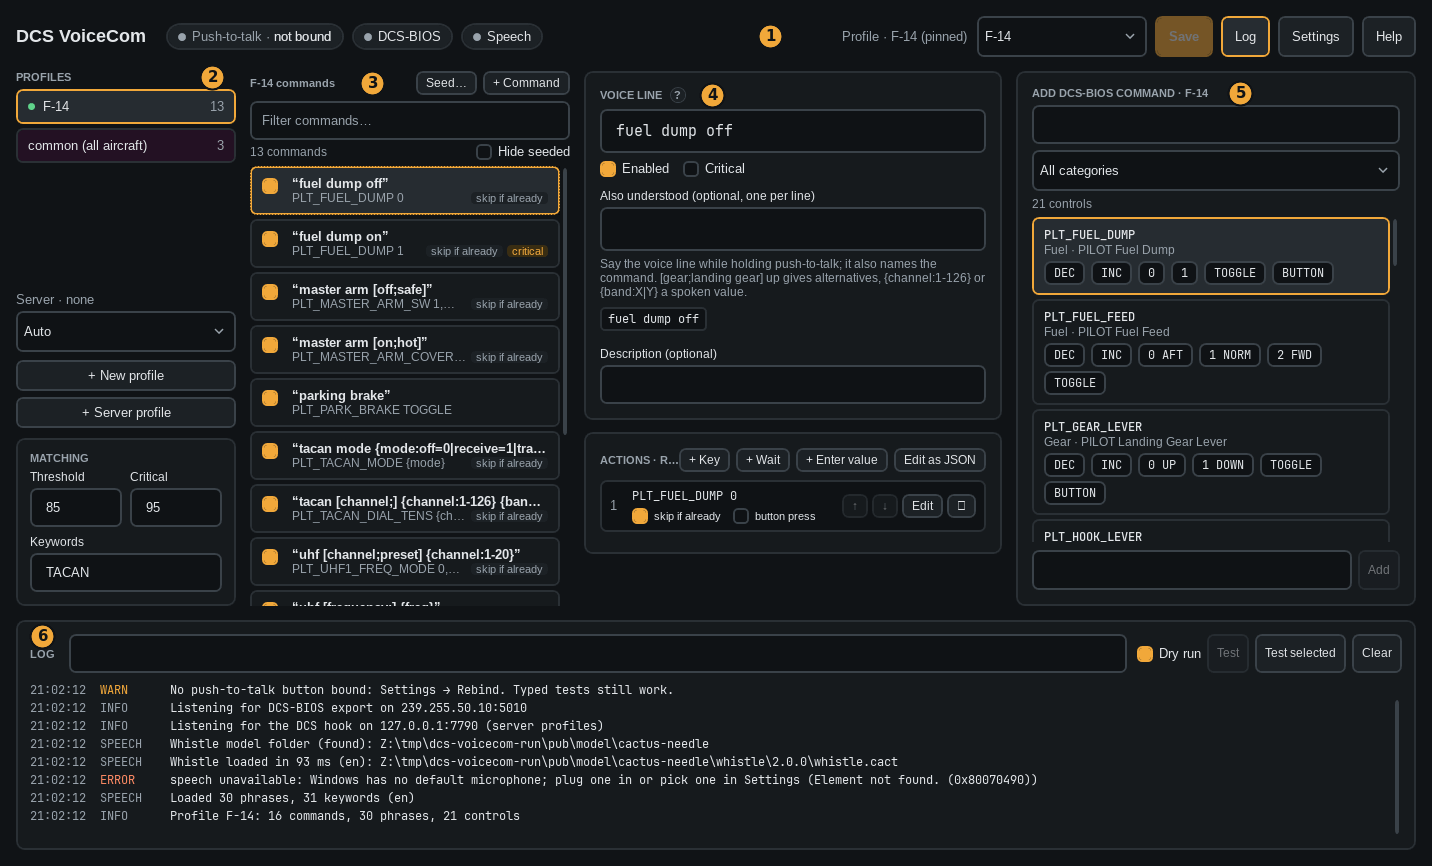
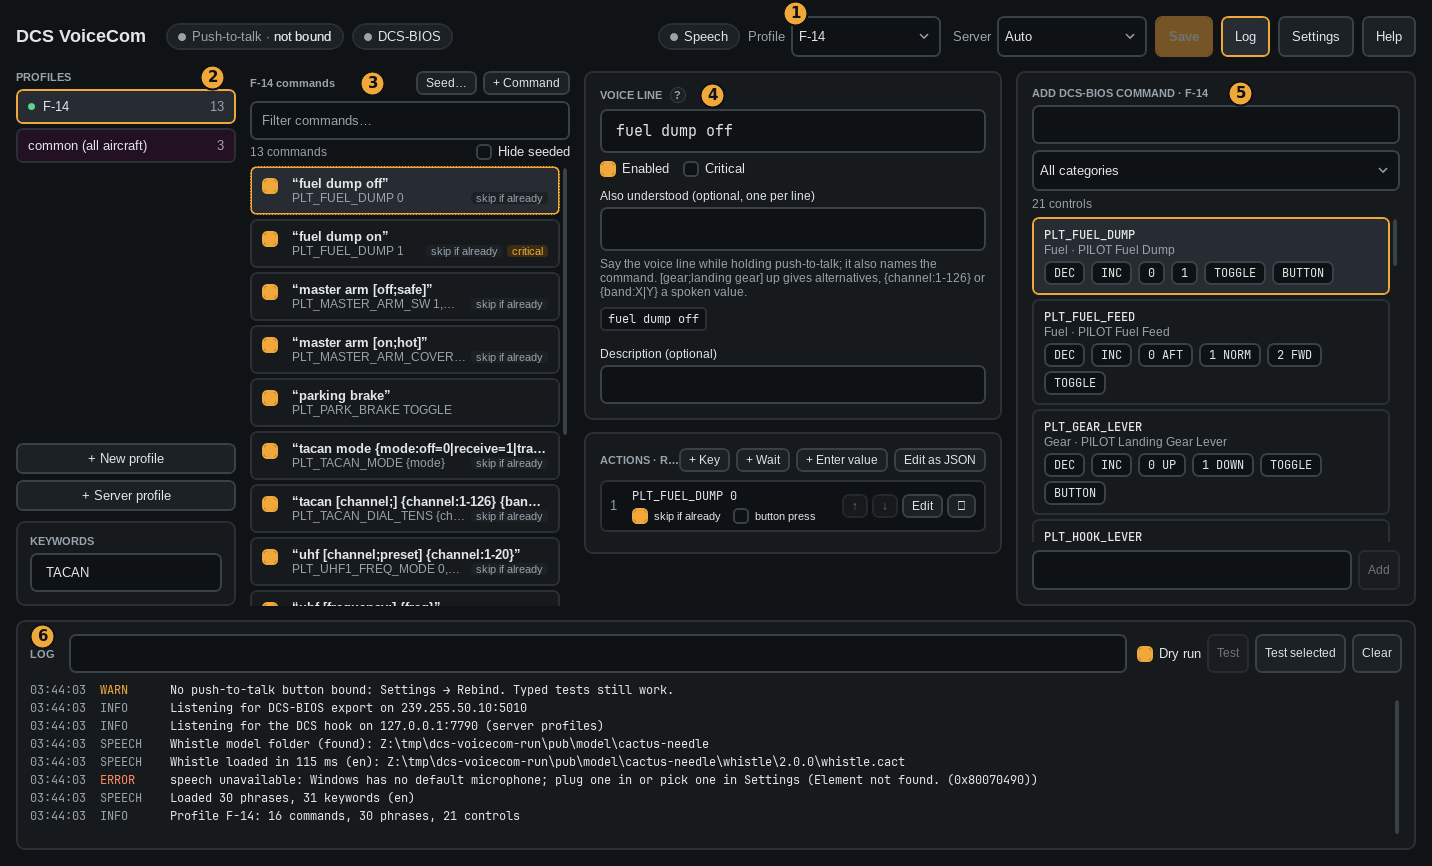
Retake help screenshots and add UI changes to beta.9 release notes
Claude-Session: https://claude.ai/code/session_01GtChxEgBD7b811KHLUqL4Z

diff --git a/docs/releases/v0.1.0-beta.9.md b/docs/releases/v0.1.0-beta.9.md
@@ -1,4 +1,4 @@
-Ninth beta of DCS VoiceCom: offline voice control for DCS World. This is a **bug-fix release**: saving a profile works again.
+Ninth beta of DCS VoiceCom: offline voice control for DCS World. This is mainly a **bug-fix release**: saving a profile works again. The main window also gets a tidier top bar, and the matching scores move to Settings.
 
 > **Beta.** Tested in a live DCS session: saving profiles and seeding. Please report what you find in Issues.
 
@@ -11,7 +11,13 @@ Ninth beta of DCS VoiceCom: offline voice control for DCS World. This is a **bug
 
 Windows may show a SmartScreen warning because the installer isn't code-signed yet. Choose **More info → Run anyway**.
 
-No breaking changes: profiles from beta 8 work as they are.
+Profiles from beta 8 work as they are. One thing to check: the match **Threshold** and **Critical** scores are now one setting for all profiles (see below), so a value you set in a single profile no longer counts.
+
+## Changed
+
+- **Profile and Server pins are together in the top bar.** The Server pin moved up from below the profile list. The labels are just "Profile" and "Server"; the green dot in the profile list already shows what is active.
+- **Matching scores are global.** *Threshold* (85) and *Critical* (95) are now in **Settings → Matching** and count for every profile. Before, each profile had its own. If you changed them in a profile, set them again in Settings.
+- *Keywords* stay below the profile list.
 
 ## Fixed
 
